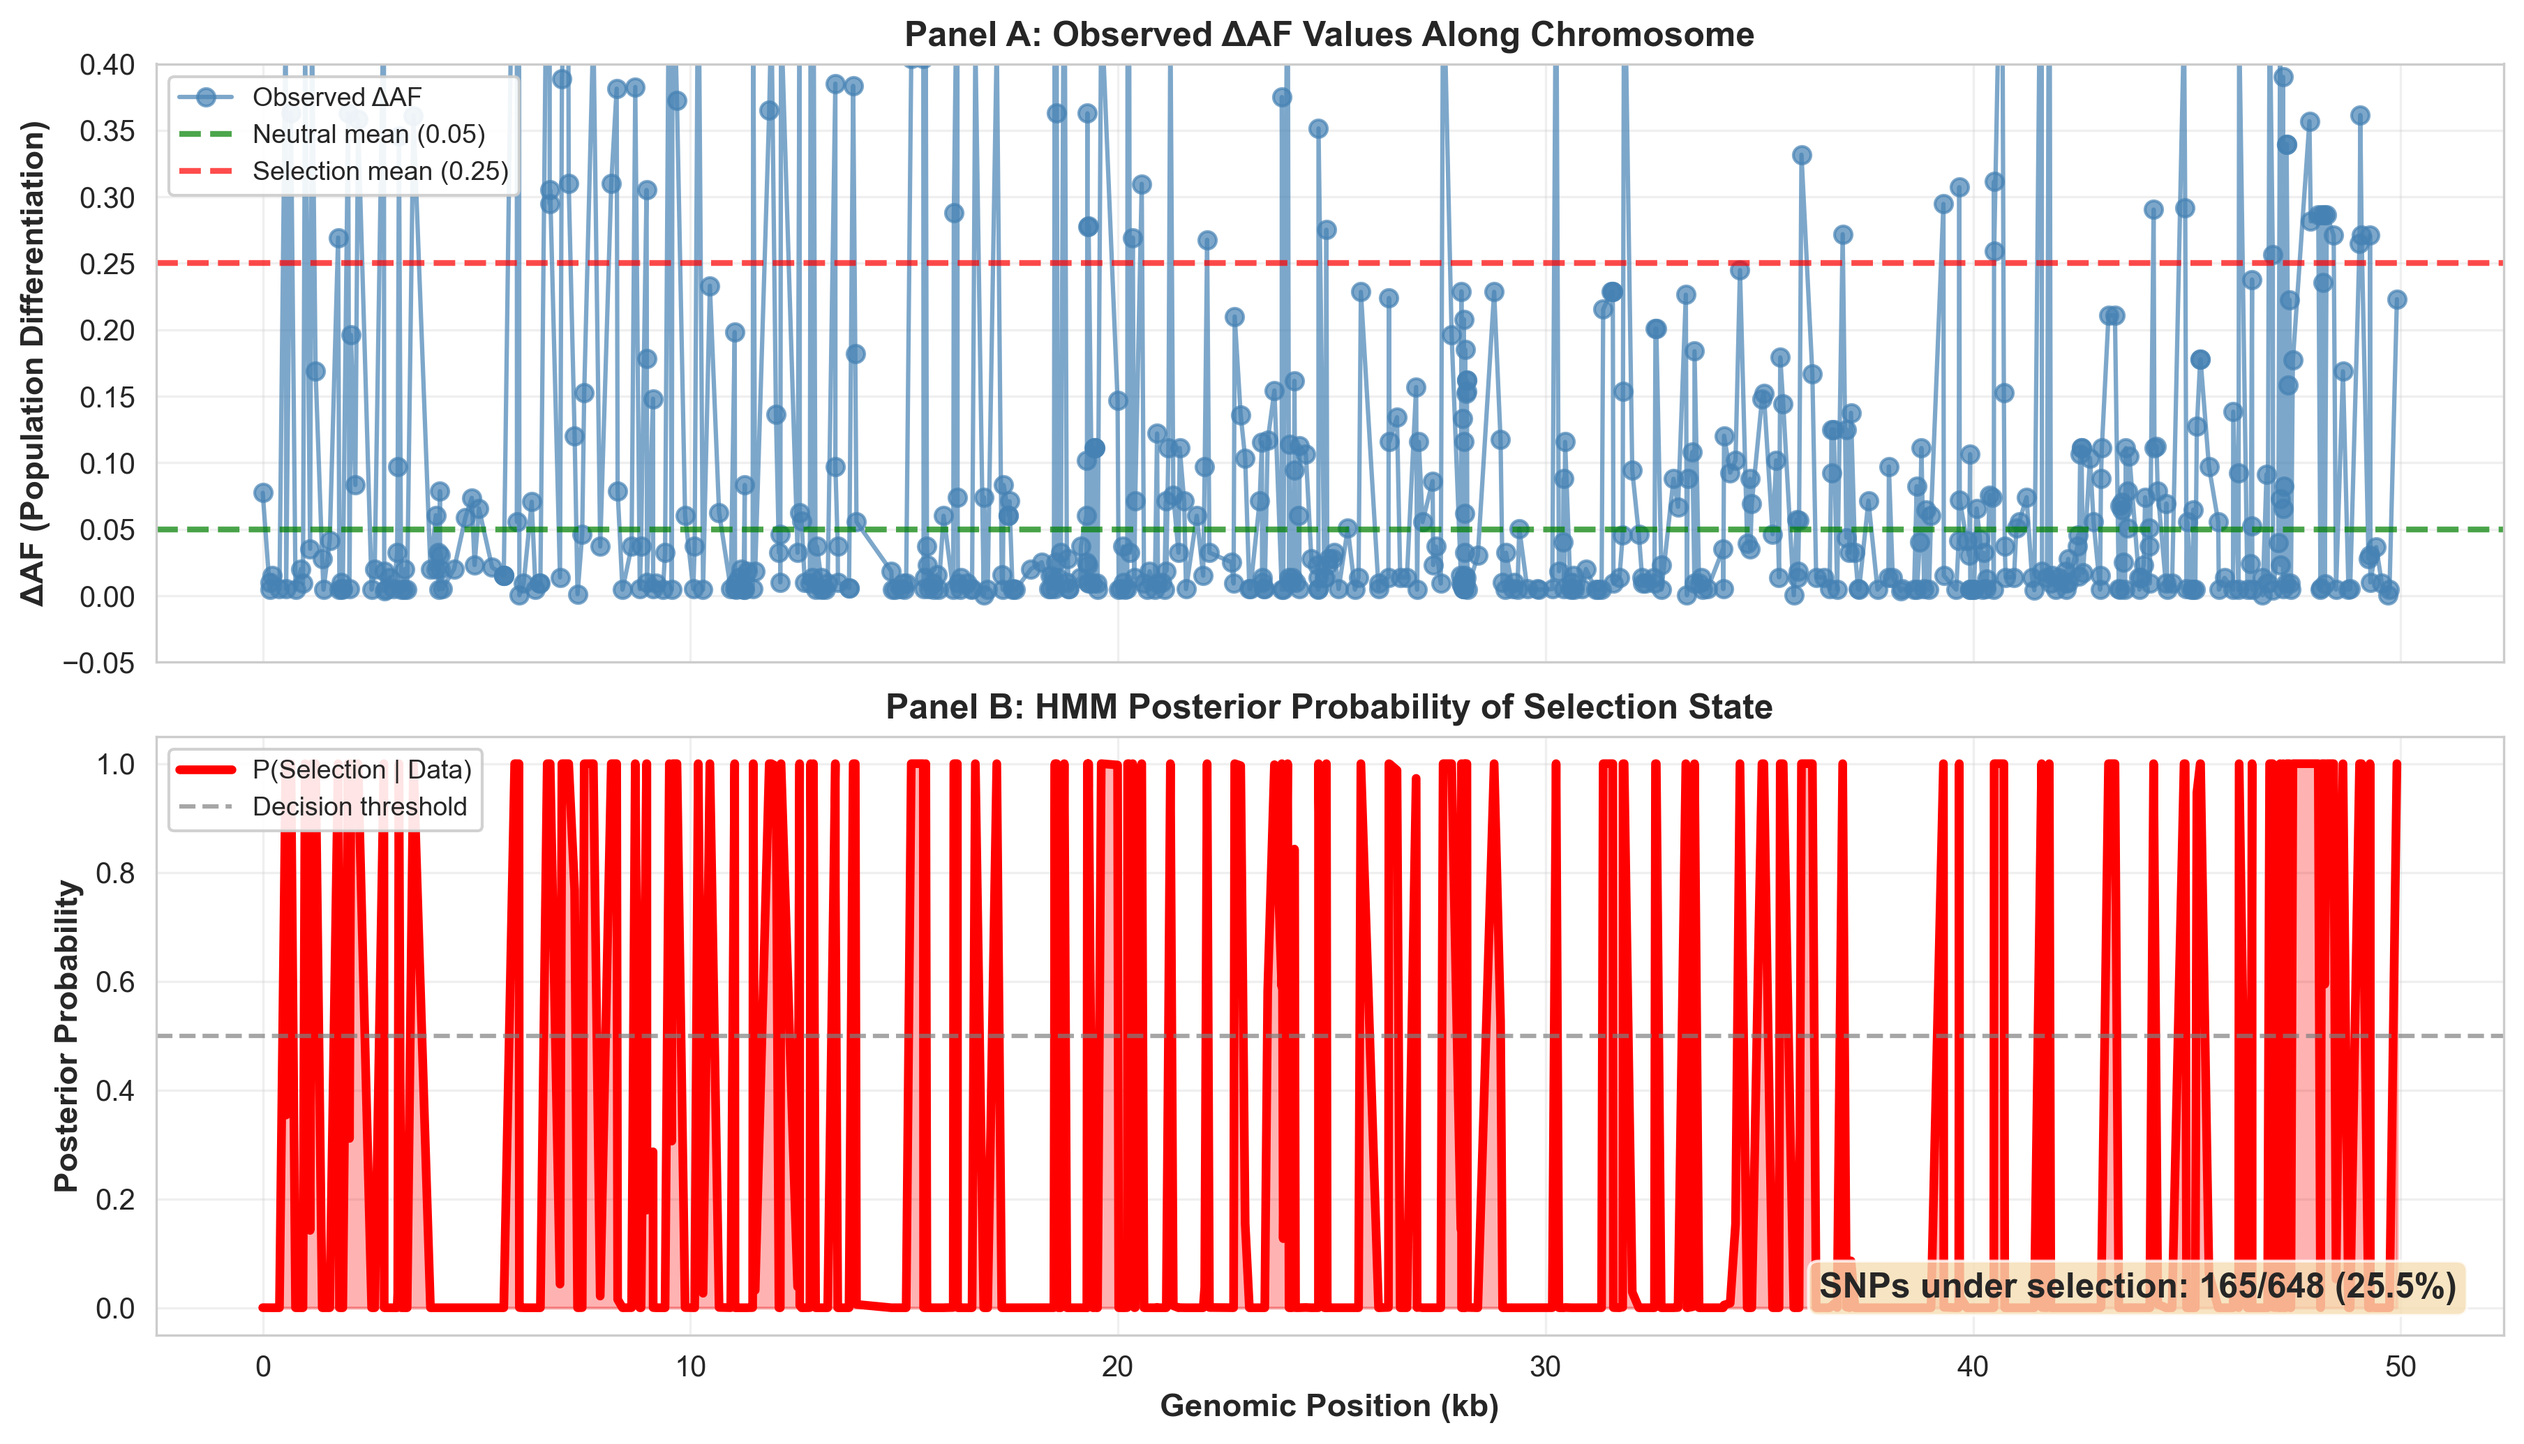
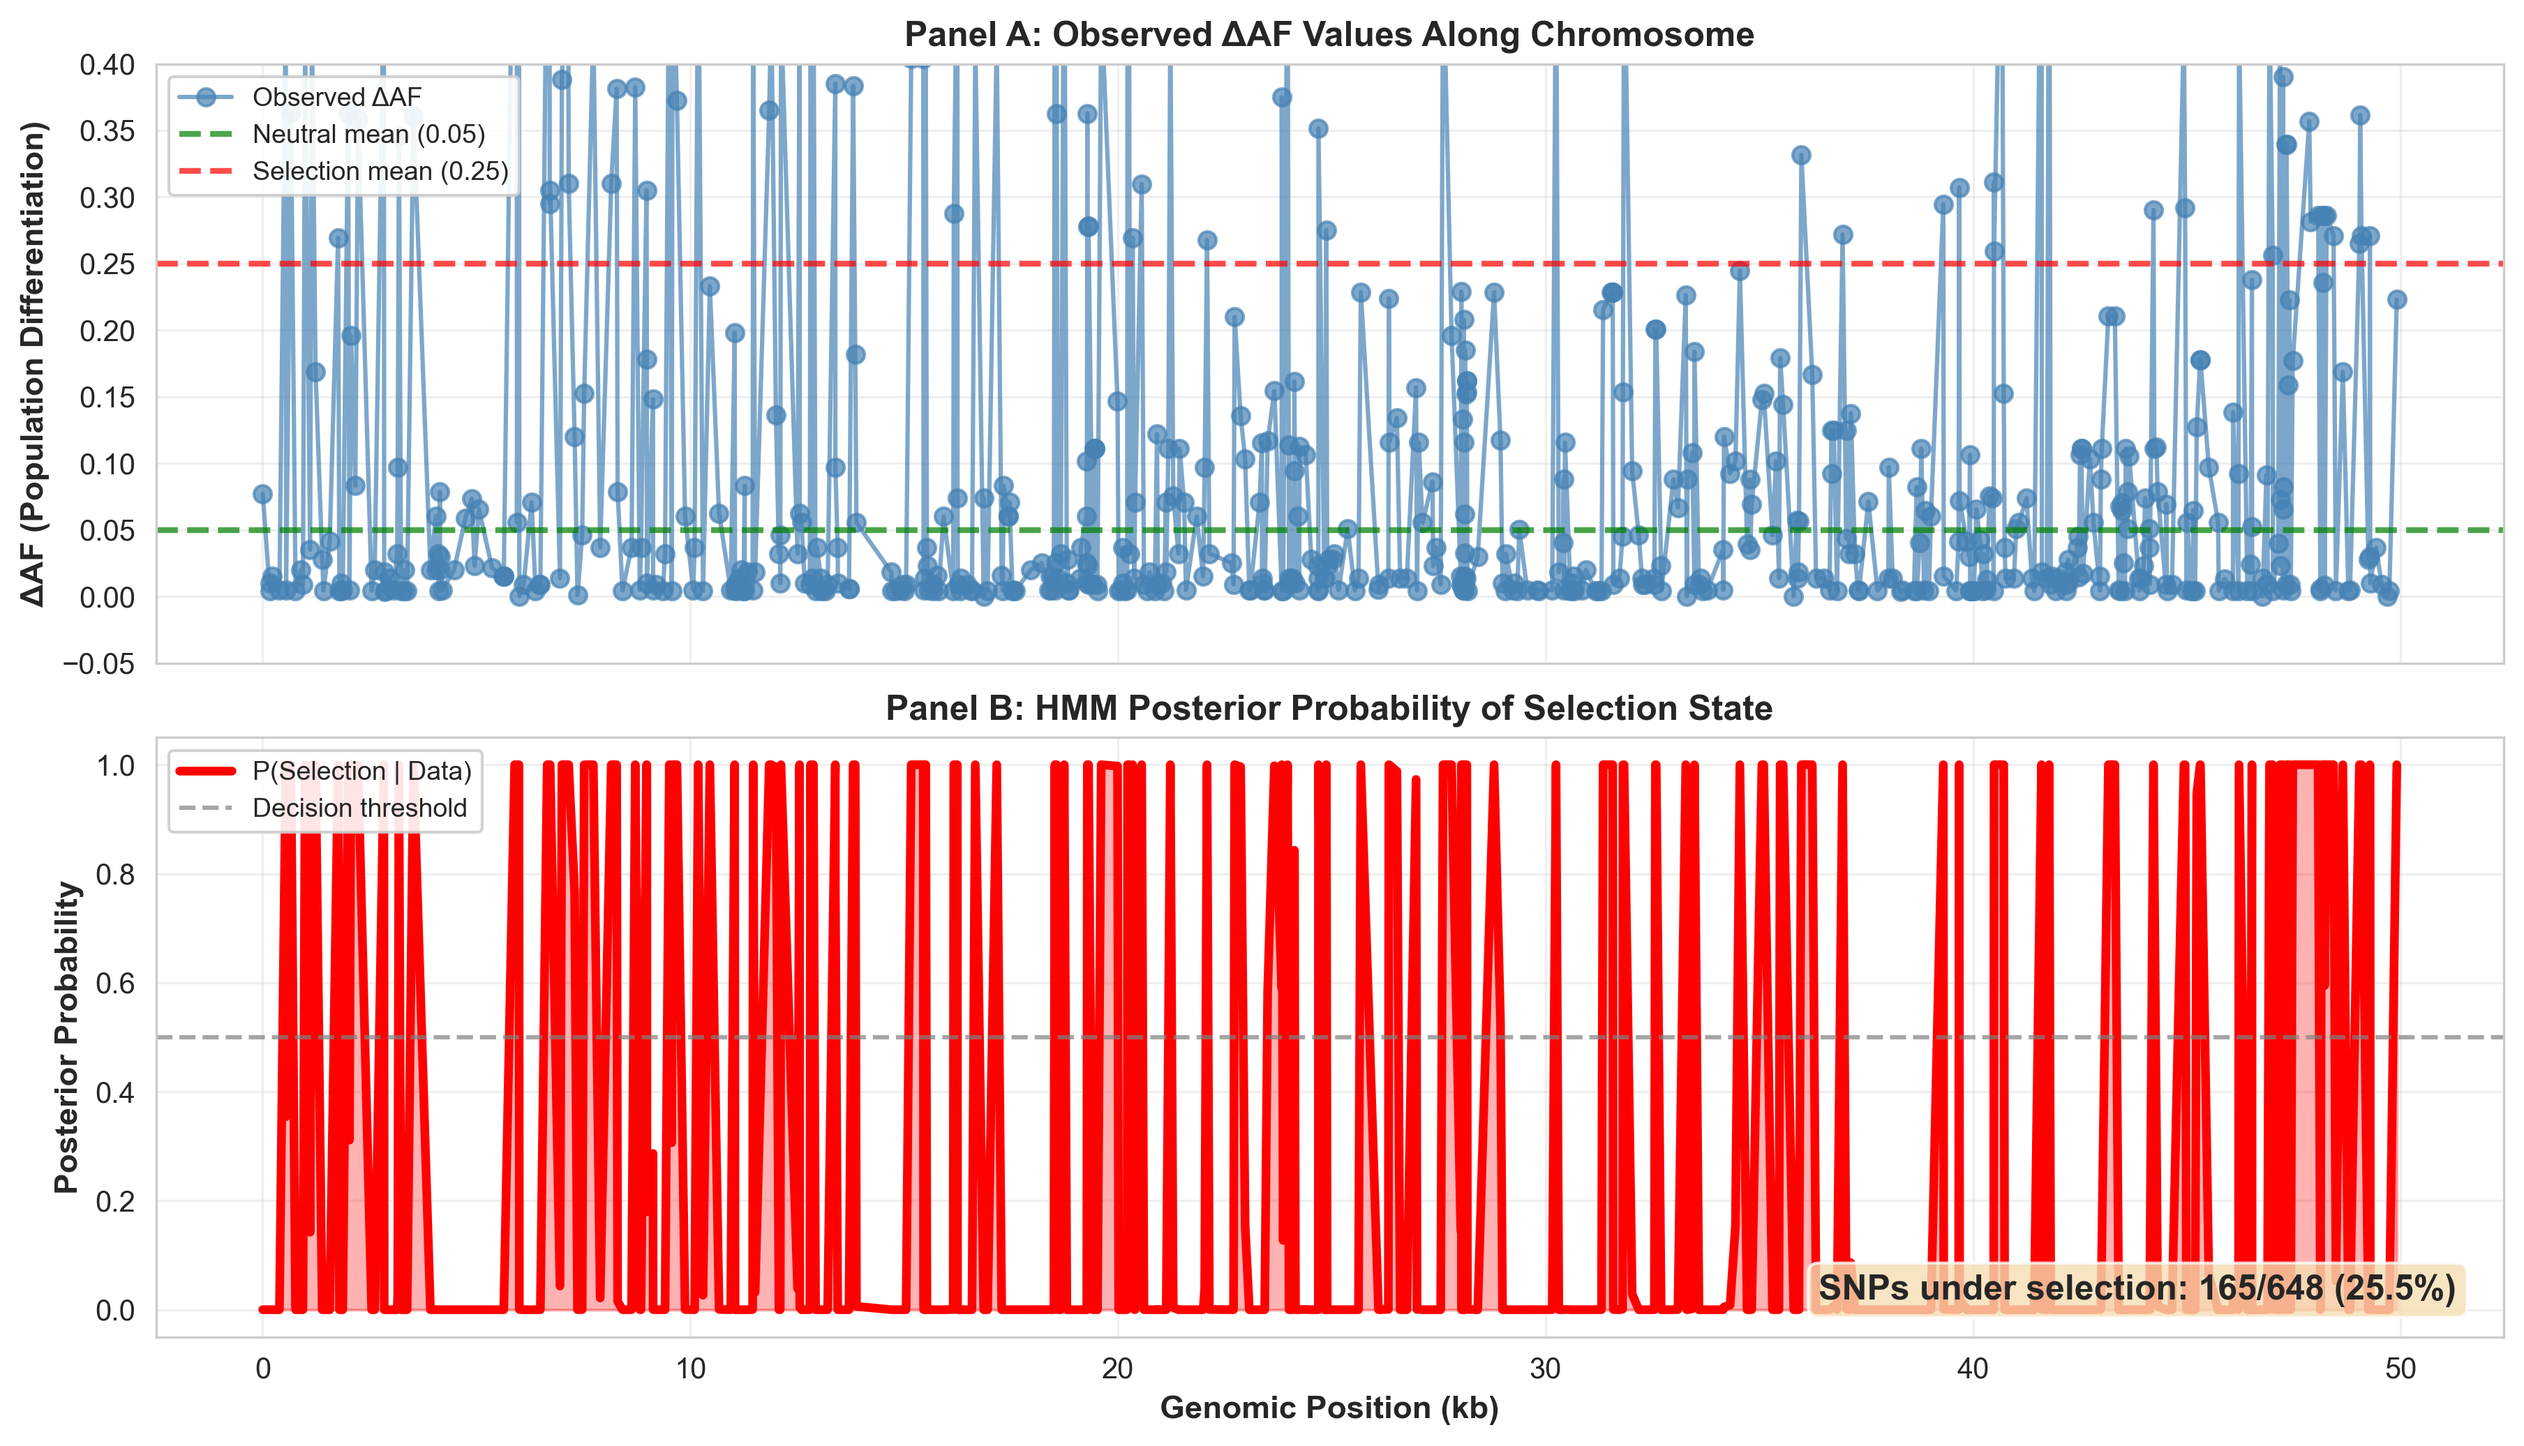
Reorganize visualization scripts and update README
- visualization.py → preliminary_results.png (simulated, 2-panel)
- visualization_expanded.py → preliminary_results_expanded.png (real, 2-panel)
- test_abo_data.py → real_abo_analysis.png and real_abo_analysis_expanded.png (comprehensive, 3-panel)
- Update README with new script organization and outputs

Changed region(s): [[0.7186, 0.8657, 0.9685, 0.8966]]

diff --git a/src/visualization_expanded.py b/src/visualization_expanded.py
@@ -1,11 +1,11 @@
 """
-Visualization: Generate Real ABO Analysis Figure for Expanded Data
+Visualization: Generate Preliminary Results for Real ABO Data
 
 This script:
 1. Loads the expanded delta_af.csv data (non-zero filtered)
 2. Runs the HMM to detect selection signals
-3. Creates comprehensive visualization with HMM results
-4. Saves as real_abo_analysis_expanded.png
+3. Creates 2-panel preliminary results figure
+4. Saves as preliminary_results_expanded.png
 
 Author: Amy Oduor
 """
@@ -373,5 +373,137 @@ def plot_real_abo_analysis_expanded(save_path=None):
     return fig, posteriors
 
 
+def plot_preliminary_results_expanded(save_path=None):
+    """
+    Generate 2-panel preliminary results figure for real ABO data (like visualization.py for simulated data)
+    
+    Creates a 2-panel figure showing:
+    1. Observed DeltaAF values along chromosome
+    2. HMM posterior probability of selection state
+    """
+    if save_path is None:
+        save_path = os.path.join(results_path, 'preliminary_results_expanded.png')
+    
+    print("="*60)
+    print("GENERATING PRELIMINARY RESULTS FIGURE (EXPANDED DATA)")
+    print("="*60)
+    
+    # ===== LOAD DATA =====
+    print("\n1. Loading expanded ABO data...")
+    delta_af_path = os.path.join(project_root, 'results', 'abo_expanded', 'delta_af_nonzero.csv')
+    if not os.path.exists(delta_af_path):
+        delta_af_path = os.path.join(project_root, 'results', 'abo_expanded', 'delta_af.csv')
+    
+    if not os.path.exists(delta_af_path):
+        print(f"❌ Error: Could not find data at {delta_af_path}")
+        print("   Make sure you've run data_prep.py first!")
+        return None
+    
+    observations, positions, metadata = load_hmm_data(delta_af_path, pop_a='YRI', pop_b='CEU')
+    
+    print(f"   Loaded {metadata['n_snps']} SNPs")
+    print(f"   Region: {metadata['region_start']:,} - {metadata['region_end']:,} bp")
+    print(f"   DeltaAF range: {observations.min():.3f} - {observations.max():.3f}")
+    
+    # ===== SET UP HMM =====
+    print("2. Initializing HMM...")
+    # Use same parameters as visualization.py for consistency
+    emission_params = {
+        'neutral': {'mean': 0.05, 'std': 0.02},
+        'selection': {'mean': 0.25, 'std': 0.05}
+    }
+    
+    transition_params = {
+        'distance_scale': 2000  # 2kb correlation distance
+    }
+    
+    hmm = SelectionHMM(emission_params, transition_params)
+    
+    # ===== RUN HMM =====
+    print("3. Running Forward-Backward algorithm...")
+    print("   (This may take a moment...)")
+    posteriors = hmm.posterior_probabilities(observations, positions)
+    
+    # ===== CALCULATE STATISTICS =====
+    predicted_states = (posteriors[:, 1] > 0.5).astype(int)
+    n_selection = np.sum(predicted_states)
+    n_neutral = len(predicted_states) - n_selection
+    
+    print(f"4. Results:")
+    print(f"   SNPs predicted as Neutral: {n_neutral} ({n_neutral/len(predicted_states)*100:.1f}%)")
+    print(f"   SNPs predicted as Selection: {n_selection} ({n_selection/len(predicted_states)*100:.1f}%)")
+    
+    # ===== CREATE FIGURE =====
+    print("5. Creating figure...")
+    fig, axes = plt.subplots(2, 1, figsize=(12, 7), sharex=True)
+    
+    # Convert positions to kb for cleaner axis
+    positions_kb = (positions - positions[0]) / 1000
+    
+    # ===== PANEL A: OBSERVED DELTAAF VALUES =====
+    ax1 = axes[0]
+    
+    # Plot DeltaAF values (using exact same styling as visualization.py)
+    ax1.plot(positions_kb, observations, 'o-', color='steelblue', 
+             alpha=0.7, linewidth=1.5, markersize=6, label='Observed ΔAF')
+    
+    # Add reference lines (matching visualization.py values)
+    ax1.axhline(0.05, color='green', linestyle='--', linewidth=2, 
+                alpha=0.7, label='Neutral mean (0.05)')
+    ax1.axhline(0.25, color='red', linestyle='--', linewidth=2, 
+                alpha=0.7, label='Selection mean (0.25)')
+    
+    ax1.set_ylabel('ΔAF (Population Differentiation)', fontsize=11, fontweight='bold')
+    ax1.set_title('Panel A: Observed ΔAF Values Along Chromosome', 
+                  fontsize=12, fontweight='bold')
+    ax1.legend(loc='upper left', fontsize=9, framealpha=0.9)
+    ax1.grid(alpha=0.3)
+    ax1.set_ylim(-0.05, 0.4)
+    
+    # ===== PANEL B: HMM POSTERIOR PROBABILITIES =====
+    ax2 = axes[1]
+    
+    # Plot posterior probability of selection state
+    ax2.plot(positions_kb, posteriors[:, 1], '-', color='red', 
+             linewidth=3, label='P(Selection | Data)')
+    ax2.fill_between(positions_kb, 0, posteriors[:, 1], 
+                     alpha=0.3, color='red')
+    
+    # Add reference line at 0.5 (decision boundary)
+    ax2.axhline(0.5, color='gray', linestyle='--', linewidth=1.5, 
+                alpha=0.7, label='Decision threshold')
+    
+    ax2.set_xlabel('Genomic Position (kb)', fontsize=11, fontweight='bold')
+    ax2.set_ylabel('Posterior Probability', fontsize=11, fontweight='bold')
+    ax2.set_title('Panel B: HMM Posterior Probability of Selection State', 
+                  fontsize=12, fontweight='bold')
+    ax2.legend(loc='upper left', fontsize=9, framealpha=0.9)
+    ax2.grid(alpha=0.3)
+    ax2.set_ylim(-0.05, 1.05)
+    
+    # ===== ADD SUMMARY TEXT =====
+    summary_text = f'SNPs under selection: {n_selection}/{len(observations)} ({n_selection/len(observations)*100:.1f}%)'
+    ax2.text(0.98, 0.05, summary_text, 
+             transform=ax2.transAxes,
+             fontsize=12, fontweight='bold',
+             verticalalignment='bottom', horizontalalignment='right',
+             bbox=dict(boxstyle='round', facecolor='wheat', alpha=0.8))
+    
+    plt.tight_layout()
+    
+    # ===== SAVE FIGURE =====
+    os.makedirs(os.path.dirname(save_path), exist_ok=True)
+    plt.savefig(save_path, dpi=300, bbox_inches='tight')
+    print(f"6. Figure saved to: {save_path}")
+    
+    plt.close()
+    
+    return fig, posteriors
+
+
 if __name__ == "__main__":
-    fig, posteriors = plot_real_abo_analysis_expanded()
+    # Generate 2-panel preliminary results by default
+    fig, posteriors = plot_preliminary_results_expanded()
+    
+    # Uncomment to generate comprehensive 3-panel analysis instead:
+    # fig, posteriors = plot_real_abo_analysis_expanded()

diff --git a/tests/test_abo_data.py b/tests/test_abo_data.py
@@ -227,4 +227,18 @@ def create_real_data_figure(snp_ids, positions, deltaaf, posteriors, af_yri, af_
 
 
 if __name__ == "__main__":
+    # Generate figure for small dataset (8 SNPs)
     posteriors = analyze_real_abo_data()
+    
+    # Also generate comprehensive figure for expanded dataset
+    print("\n" + "="*70)
+    print("GENERATING EXPANDED DATASET ANALYSIS")
+    print("="*70)
+    
+    # Import the comprehensive analysis function
+    from visualization_expanded import plot_real_abo_analysis_expanded
+    
+    # Generate comprehensive 3-panel figure for expanded data
+    expanded_fig, expanded_posteriors = plot_real_abo_analysis_expanded(
+        save_path=os.path.join(project_root, 'results', 'real_abo_analysis_expanded.png')
+    )

diff --git a/README.md b/README.md
@@ -16,9 +16,9 @@ Applying Hidden Markov Models to Detect Selection on ABO Blood Group Genes Acros
 - Two-state HMM in `src/hmm_core.py` detects neutral vs selection signals from differentiation metrics. Forward/backward, Viterbi decoding, and Baum–Welch training are implemented.
 - Simulations in `src/simulation.py` generate toy SNP series with a known selection segment.
 - Visualization scripts:
-  - `src/visualization.py`: Generates preliminary results figure from simulated data → `results/preliminary_results.png`
-  - `src/visualization_expanded.py`: Main script for real ABO data analysis with HMM → `results/real_abo_analysis_expanded.png`
-  - `tests/test_abo_data.py`: Test script with hardcoded small dataset → `results/real_abo_analysis.png`
+  - `src/visualization.py`: Generates 2-panel preliminary results figure from simulated data → `results/preliminary_results.png`
+  - `src/visualization_expanded.py`: Generates 2-panel preliminary results figure for real ABO data → `results/preliminary_results_expanded.png`
+  - `tests/test_abo_data.py`: Generates comprehensive 3-panel figures for both small and expanded datasets → `results/real_abo_analysis.png` and `results/real_abo_analysis_expanded.png`
 - Data prep in `src/data_prep.py` extracts allele frequencies from 1000 Genomes VCF slices and computes ΔAF tables for specified populations (YRI, CEU, CHB).
 
 ### Quickstart
@@ -41,10 +41,15 @@ python tests/test_toy_example.py
 python tests/test_hmm_fit.py
 ```
 
-#### 3. Generate Simulated Data Figure
+#### 3. Generate Preliminary Results Figures
 ```bash
+# Simulated data (2-panel figure)
 python src/visualization.py
 # Output: results/preliminary_results.png
+
+# Real ABO data (2-panel figure)
+python src/visualization_expanded.py
+# Output: results/preliminary_results_expanded.png
 ```
 
 #### 4. Run Real ABO Data Analysis (Main Workflow)
@@ -62,9 +67,11 @@ python filter_nonzero_deltaaf.py \
     --input results/abo_expanded/delta_af.csv \
     --output results/abo_expanded/delta_af_nonzero.csv
 
-# Step 3: Run HMM analysis and generate visualization
-python src/visualization_expanded.py
-# Output: results/real_abo_analysis_expanded.png
+# Step 3: Generate comprehensive 3-panel analysis figures
+python tests/test_abo_data.py
+# Outputs:
+#   - results/real_abo_analysis.png (small dataset, 8 SNPs)
+#   - results/real_abo_analysis_expanded.png (expanded dataset, 648+ SNPs)
 ```
 
 ### Data Preparation
@@ -97,16 +104,26 @@ python filter_nonzero_deltaaf.py \
     --output results/abo_expanded/delta_af_nonzero.csv
 ```
 
-### Main Analysis Script
+### Visualization Scripts
 
-**`src/visualization_expanded.py`** is the primary script for real data analysis:
-- Loads expanded ABO data (prefers filtered non-zero version)
-- Runs HMM with Forward-Backward algorithm
-- Generates comprehensive 3-panel figure:
+**`src/visualization.py`** - Simulated data preliminary results:
+- Generates 2-panel figure (FST values + HMM posteriors)
+- Uses simulated data with known ground truth
+- Output: `results/preliminary_results.png`
+
+**`src/visualization_expanded.py`** - Real data preliminary results:
+- Generates 2-panel figure (DeltaAF values + HMM posteriors)
+- Uses real ABO data from 1000 Genomes
+- Output: `results/preliminary_results_expanded.png`
+
+**`tests/test_abo_data.py`** - Comprehensive real data analysis:
+- Generates comprehensive 3-panel figures for both datasets:
   1. Allele frequencies across populations (YRI, CEU, CHB)
   2. DeltaAF with highlighting for high-differentiation regions
   3. HMM posterior probabilities of selection state
-- Saves to `results/real_abo_analysis_expanded.png`
+- Outputs:
+  - `results/real_abo_analysis.png` (small dataset, 8 SNPs)
+  - `results/real_abo_analysis_expanded.png` (expanded dataset, 648+ SNPs)
 
 ### Training (Baum–Welch)
 Use `SelectionHMM.fit(observations, positions, n_iter=10)` to re-estimate emission means/stds and a heuristic distance scale. Example:
@@ -138,8 +155,10 @@ hmm-selection/
 │   │   ├── allele_frequencies.csv
 │   │   ├── delta_af.csv
 │   │   └── delta_af_nonzero.csv
-│   ├── preliminary_results.png  # Simulated data figure
-│   └── real_abo_analysis_expanded.png  # Main real data figure
+│   ├── preliminary_results.png  # Simulated data (2-panel)
+│   ├── preliminary_results_expanded.png  # Real data (2-panel)
+│   ├── real_abo_analysis.png  # Small dataset comprehensive (3-panel)
+│   └── real_abo_analysis_expanded.png  # Expanded dataset comprehensive (3-panel)
 └── filter_nonzero_deltaaf.py    # Filter script for non-zero DeltaAF
 ```
 
